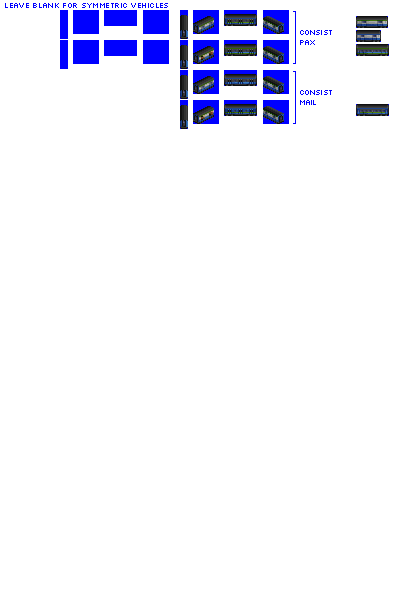
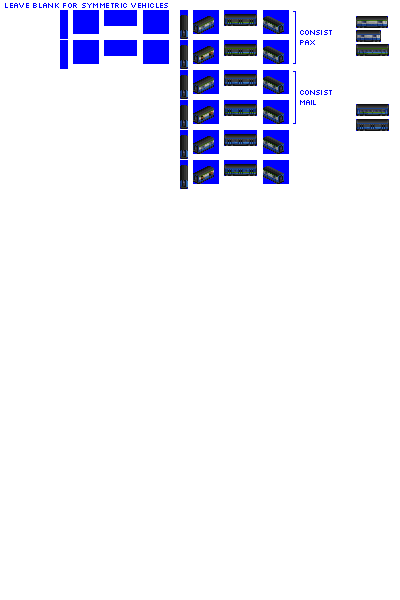
Change: more mail car livery faff

Changed region(s): [[0.45, 0.21, 0.72, 0.33], [0.87, 0.18, 0.99, 0.24]]

diff --git a/src/train.py b/src/train.py
@@ -692,9 +692,9 @@ class MailCarConsist(CarConsist):
         self.run_cost_divisor = 7
         self.allow_flip = True
         # Graphics configuration
-        spriterow_group_mappings = {'mail': {'default': 0, 'first': 0, 'last': 0, 'special': 0},
+        spriterow_group_mappings = {'mail': {'default': 0, 'first': 1, 'last': 1, 'special': 0},
                                     'pax': {'default': 0, 'first': 0, 'last': 0, 'special': 0}}
-        self.gestalt_graphics = GestaltGraphicsConsistSpecificLivery(spriterow_group_mappings)
+        self.gestalt_graphics = GestaltGraphicsConsistSpecificLivery(spriterow_group_mappings, consist_ruleset='mail_cars')
 
 
 class MetalCarConsist(CarConsist):
